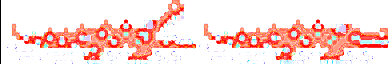
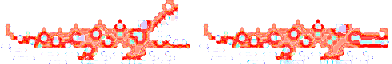
Add croc animation

Changed region(s): [[0.0, 0.0, 0.5204, 1.0], [0.0306, 0.9062, 0.0612, 0.9375]]

diff --git a/engine.cpp b/engine.cpp
@@ -29,6 +29,7 @@ TestEngine::~TestEngine(){
     delete frog;
     delete snake;
     delete frogdeath;
+    delete Croco_Row_3;
 
     for(int i=0; i< MAX_TILE_X; i++)
         delete StreetBlocksBottom[i];
@@ -290,6 +291,16 @@ void TestEngine::RenderBackgroundSprites(){
     // FrogZiel[FROG_DESTINATIONS-1]->RenderFromAsset(0,0);
 }
 
+void TestEngine::RenderCrocos(){
+    bool tmp;
+
+    if ( ! Croco_Row_3->AnimationDone())
+        Croco_Row_3->MoveSprite(0,1,192,64,500,Step_Trees_3,0,_Elapsed,tmp);
+    else{
+        Croco_Row_3->StartAnimation(0,1);
+    }
+}
+
 void TestEngine::RenderWood(){
 
     bool tmp;
@@ -300,8 +311,9 @@ void TestEngine::RenderWood(){
 
     for (int i =0; i < FLOATOBJECTS_PER_ROW_3;i++){
         // Erstmal alles rendern
-        Baum_Row3[i]->MoveSprite(0,0,128,64,100,Step_Trees_3,0,_Elapsed,tmp);
+        Baum_Row3[i]->MoveSprite(0,0,128,64,500,Step_Trees_3,0,_Elapsed,tmp);
     }
+//    RenderCrocos();
 
     for (int i =0; i < FLOATOBJECTS_PER_ROW_5;i++){
         // Erstmal alles rendern
@@ -610,8 +622,7 @@ void TestEngine::GetNewState(){
         }
     }
         break;
-    case 3:
-    {
+    case 3:   {
         bool plunk = true;
         sPoint p = frog->Pos();
         if (frog->PosX() > _ResX )
@@ -634,7 +645,14 @@ void TestEngine::GetNewState(){
                 break;
             }
             else
-                GameState = GAMESTATE::FloatingRight;
+                if (Croco_Row_3->IsColliding(frog->Pos(),frog->SpriteSize())) {
+                    // Croco frisst frogo...
+                    GameState = GAMESTATE::Die;
+                    StartDieAnimation(0,6);
+                }
+
+                else
+                    GameState = GAMESTATE::FloatingRight;
         }
     }
         break;
@@ -841,7 +859,7 @@ void TestEngine::Run(){
 
             // Das ganze mal mit den states:
 
-
+            bool tmp;
             switch (GameState){
 
                 case GAMESTATE::Paused:
@@ -876,6 +894,7 @@ void TestEngine::Run(){
                     RenderTurtles();
                     RenderVehicles();
                     RenderArrivedFrogs();
+                    RenderCrocos();
                     RenderFrog();
 
                     countelapse += _Elapsed;
@@ -889,15 +908,22 @@ void TestEngine::Run(){
 
                     RenderScore();
 
-                    if (! snake->IsColliding(frog->Pos(),frog->SpriteSize())) {
+                    if ( ! snake->AnimationDone())
+                        snake->MoveSprite(0,2,128,64,80,Step_Snake,0,_Elapsed,tmp);
+                    else{
 
-                        bool tmp;
-                        snake->MoveSprite(0,2,100,128,64,Step_Snake,0,_Elapsed,tmp);
-                    }
-                    else
-                    {
-                        GameState  = GAMESTATE::Die;
-                        StartDieAnimation(0,6);
+                        snake->StartAnimation(0,2);
+                        if (snake->IsColliding(frog->Pos(),frog->SpriteSize())) {
+                            GameState  = GAMESTATE::Die;
+                            StartDieAnimation(0,6);
+    //                         bool tmp;
+    //                         snake->MoveSprite(0,2,100,128,64,Step_Snake,0,_Elapsed,tmp);
+                        }
+                        // else
+                        // {
+                        //     // GameState  = GAMESTATE::Die;
+                        //     // StartDieAnimation(0,6);
+                        // }
                     }
 
                     break;
@@ -908,6 +934,7 @@ void TestEngine::Run(){
                     RenderScore();
                     RenderTurtles();
                     RenderVehicles();
+                    RenderCrocos();
                     RenderArrivedFrogs();
                     RenderFrog();
 
@@ -923,6 +950,7 @@ void TestEngine::Run(){
                     RenderScore();
                     RenderVehicles();
                     RenderTurtles();
+                    RenderCrocos();
                     RenderArrivedFrogs();
                     audio->ChannelToListen(AUDIO_Channel_Plunck);
                     audio->PlaySound(sound_Plunk,AUDIO_Channel_Plunck);
@@ -941,6 +969,7 @@ void TestEngine::Run(){
                     RenderScore();
                     RenderTurtles();
                     RenderVehicles();
+                    RenderCrocos();
                     RenderArrivedFrogs();
                     // Frog death
                     bool animdone;
@@ -963,6 +992,7 @@ void TestEngine::Run(){
                     RenderScore();
                     RenderTurtles();
                     RenderVehicles();
+                    RenderCrocos();
                     RenderArrivedFrogs();
                     _FrogCount --;
                     GameState = GAMESTATE::StartUpFinished;
@@ -978,6 +1008,7 @@ void TestEngine::Run(){
                         RenderScore();
                         RenderTurtles();
                         RenderVehicles();
+                        RenderCrocos();
                         RenderArrivedFrogs();
                         RenderFrog();
                         _gameScore += 100;
@@ -1168,7 +1199,7 @@ bool TestEngine::InitUserObjects(){
     snake->SetPosition(_ResX,800);
     snake->setInstanceName("<SNAKE>");
 
-    snake ->StartAnimation(0,0,3000,3,5,0);
+    snake ->StartAnimation(0,2);  // (0,0,3000,3,5,0);
     SnakeX = 0;
 
     // ---------------------------------------------
@@ -1259,6 +1290,7 @@ bool TestEngine::InitUserObjects(){
             x += 64;
     }
 
+    InitCroco();
     InitTreeRows();
     InitVehicles();
 
@@ -1394,6 +1426,14 @@ void TestEngine::InitVehicles(){
 
 }
 
+void TestEngine::InitCroco(){
+    int x = 0;
+    Croco_Row_3 = new ENGINE::Sprite(_ResX,_ResY,"/home/paul/workspace/Frogger/images/Crocs392x64_2_1.png",_Shader);
+    Croco_Row_3->InitTextureMap(2,1);
+    Croco_Row_3->SetPosition(x,226);
+    Croco_Row_3->StartAnimation(0,1);
+}
+
 void TestEngine::InitTreeRows(){
     // -------------------------
     // Bäume Row1 - Row5
@@ -1407,13 +1447,13 @@ void TestEngine::InitTreeRows(){
         x+= 480;
     }
 
-    x = 0;
+    x = 250;
     for (int i =0; i < FLOATOBJECTS_PER_ROW_3;i++){
-        Baum_Row3[i] = new ENGINE::Sprite(_ResX,_ResY,"/home/paul/workspace/Frogger/images/Baum320x68.png",_Shader);
+        Baum_Row3[i] = new ENGINE::Sprite(_ResX,_ResY,"/home/paul/workspace/Frogger/images/Baum192x68.png",_Shader);
         Baum_Row3[i]->InitTextureMap(1,1);
         Baum_Row3[i]->SetPosition(x,226);
         Baum_Row3[i]->StartAnimation(0,0);
-        x+= 480;
+        x+= 300;
     }
 
     x = 0;

diff --git a/sprite.cpp b/sprite.cpp
@@ -149,8 +149,8 @@ void ENGINE::Sprite::MoveSprite(int starttile,int lasttile, int tilesizeX, int t
 
             _NextTile ++;
 
-            if (_NextTile >= lasttile) {  // restart from first image
-                _NextTile = starttile;
+            if (_NextTile > lasttile) { // Restart mit StartAnimation(starttile,lasttile)
+                _NextTile = lasttile;
                 _AnimationDone = true;
                 animationdone = true;
             }
@@ -174,16 +174,16 @@ void ENGINE::Sprite::MoveSprite(int starttile,int lasttile, int tilesizeX, int t
     _Pos.y += stepy;
 
     if (_Pos.x > _ResX)
-        _Pos.x = -tilesizeX;
+        _Pos.x = -SpriteSize().w;  //tilesizeX;
 
-    if (_Pos.x < -tilesizeX)
+    if (_Pos.x < -SpriteSize().w) //tilesizeX)
         _Pos.x = _ResX;
 
     if (_Pos.y > _ResY)
-        _Pos.y = -tilesizeY;
+        _Pos.y = -SpriteSize().h; //tilesizeY;
 
-    if (_Pos.y < -tilesizeY)
-        _Pos.y = _ResY;
+    if (_Pos.y < -SpriteSize().h) //tilesizeY)
+        _Pos.y = - SpriteSize().h; //_ResY;
 }
 
 
@@ -228,7 +228,14 @@ void ENGINE::Sprite::MoveSprite(int pixelsX, int pixelsY, uint64_t timetoanimate
                 // }
             }
             else
+            if (_Pos.x >= _ResX){
+                _Pos.x = -SpriteSize().w;
                 _ToPosX = _Pos.x;
+            }
+            else{
+
+                _ToPosX = _Pos.x;
+            }
         }
     }
 

diff --git a/engine.h b/engine.h
@@ -66,7 +66,7 @@ const int AUDIO_CHANNEL_EXTRA       = 5;
 
 const int FLOATOBJECTS_PER_ROW_5            = 3;
 const int FLOATOBJECTS_PER_ROW_4            = 6;
-const int FLOATOBJECTS_PER_ROW_3            = 3;
+const int FLOATOBJECTS_PER_ROW_3            = 4;
 const int FLOATOBJECTS_PER_ROW_2            = 4;
 const int FLOATOBJECTS_PER_ROW_1            = 3;
 
@@ -172,6 +172,8 @@ protected:
     ENGINE::Sprite* Baum_Row5[FLOATOBJECTS_PER_ROW_5];
     ENGINE::Sprite* Baum_Row3[FLOATOBJECTS_PER_ROW_3];    
     ENGINE::Sprite* Baum_Row1[FLOATOBJECTS_PER_ROW_1];
+    // Croco
+    ENGINE::Sprite* Croco_Row_3;
 
     // ----------------------
     // Schildkröten:
@@ -257,6 +259,7 @@ private:
     void ReleaseTrees();
     void InitTextMap();
     void InitVehicles();
+    void InitCroco();
     void ReleaseVehicles();
 
     void RenderBackgroundSprites();
@@ -267,6 +270,7 @@ private:
     void RenderTurtles();
     void RenderVehicles();
     void RenderArrivedFrogs();
+    void RenderCrocos();
     int GetFloatingStep();
 
 
